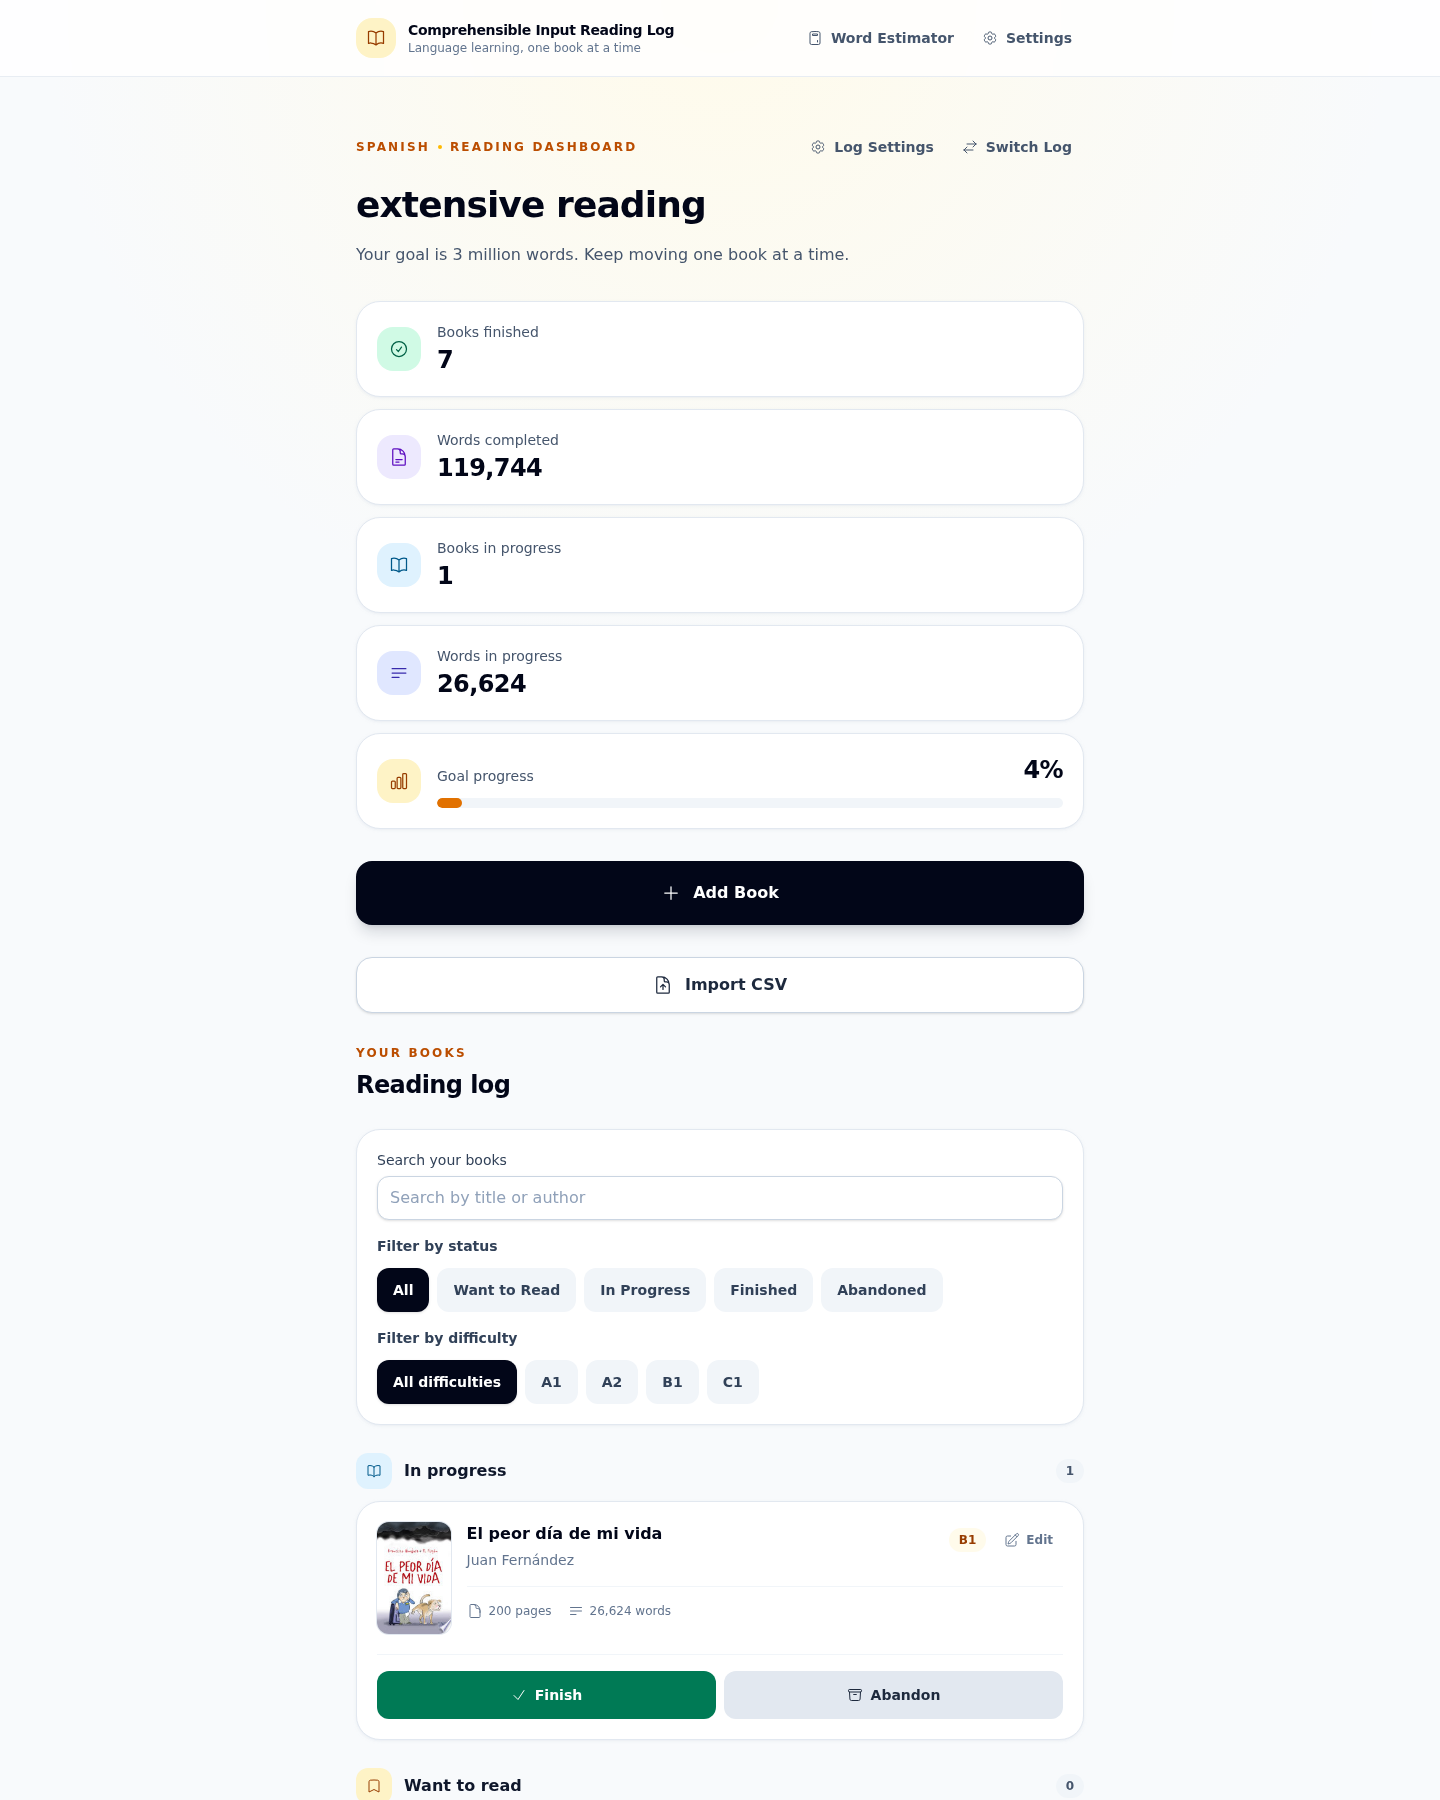
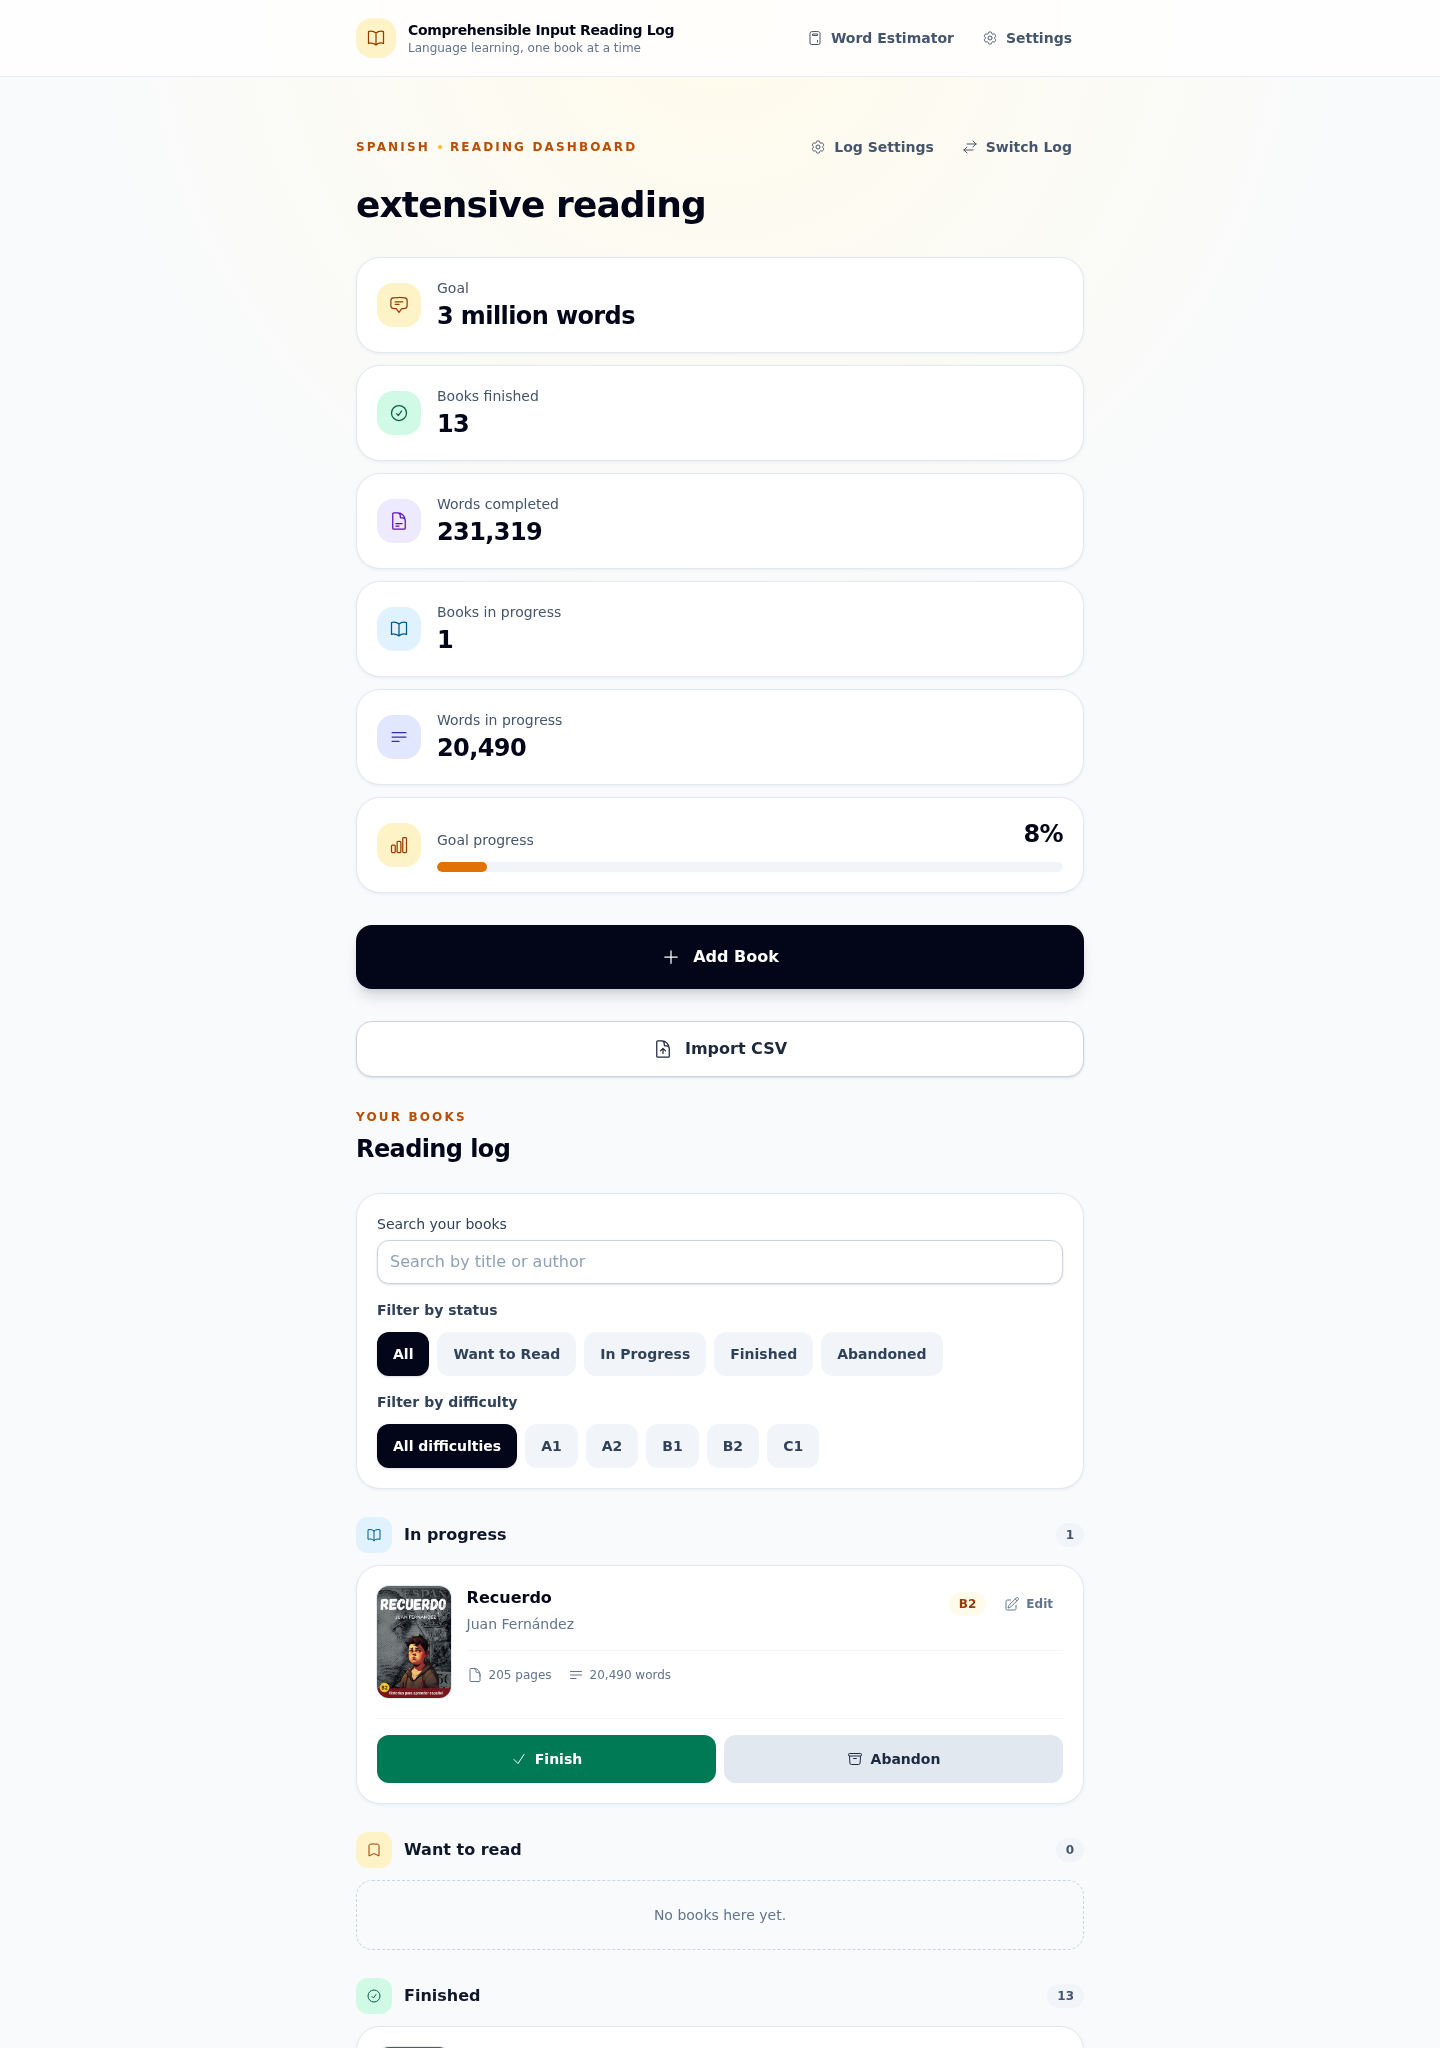
Update screenshots after refactoring

diff --git a/README.md b/README.md
@@ -34,8 +34,7 @@ tool; it does not attempt to prove a particular theory of language learning.
 
 Further background:
 
-- [What is Extensive Reading?](https://erfoundation.org/wordpress/what_is/) from
-  the Extensive Reading Foundation
+- [What is Extensive Reading?](https://erfoundation.org/wordpress/what_is/)
 - [Project inspiration video](https://www.youtube.com/watch?v=OheGJ2geFnA)
 
 ## Features
@@ -109,7 +108,11 @@ original project philosophy.
 
 ### Book Details
 
-![Book details for a finished Spanish reader](docs/screenshots/book-details.png)
+![Book details for an in-progress Spanish reader](docs/screenshots/book-details.png)
+
+### Cover Art
+
+![Cover image URL, upload, and preview controls](docs/screenshots/cover-art.png)
 
 ## Development
 
